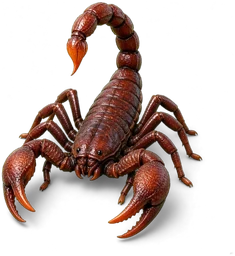
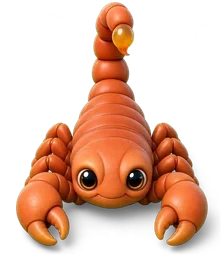
v8: friendlier, centered scorpion sprites (crawler, giant, queen, hatchling, eggs); sprites anchored to tile centre with HP bar under

diff --git a/art.js b/art.js
@@ -18,7 +18,7 @@
   const fmt = (n) => (n >= 1e6 ? (n / 1e6).toFixed(n >= 1e7 ? 1 : 2) + 'M' : n >= 1e4 ? (n / 1e3).toFixed(n >= 1e5 ? 0 : 1) + 'K' : String(Math.round(n)));
 
   // ================= RASTER SPRITES (assets/*.webp) with procedural fallback =================
-  const ASSET_V = 7;
+  const ASSET_V = 8;
   const ASSETS = [...Array.from({ length: 12 }, (_, i) => 'cannon' + String(i + 1).padStart(2, '0')),
     'crawler', 'giant', 'queen', 'hatchling', 'eggs', 'orb', 'item_spray', 'item_fire', 'item_super', 'barricade', 'barricade_broken', 'bg', 'tile'];
   const IMG = {};
@@ -248,14 +248,16 @@
     giant:     { shell: '#8e6646', shell2: '#46301c', hi: '#d0a678', belly: '#b88a5e', claw: '#cfa67c', claw2: '#5e3e22', eye: '#ff8a3a', line: '#22140a' },
     queen:     { shell: '#3c3644', shell2: '#141018', hi: '#7a7088', belly: '#c4283a', claw: '#d83c3c', claw2: '#5a0a14', eye: '#ff4a4a', line: '#08060a' },
   };
-  const BUG_BOX = { crawler: [96, 92], hatchling: [70, 66], giant: [186, 118], queen: [186, 116] };
+  const BUG_BOX = { crawler: [96, 92], hatchling: [70, 66], giant: [190, 120], queen: [190, 134] };
   function drawScorpion(g, cx, cy, type, t, sc = 1) {
     if (has(type) && BUG_BOX[type]) {
-      const [bw, bh] = BUG_BOX[type], breathe = 1 + Math.sin(t * 2.4) * 0.018, sway = Math.sin(t * 1.7) * 0.025;
-      g.save(); g.translate(cx, cy + bh * sc / 2 - 6 * sc);
-      g.fillStyle = 'rgba(90,45,5,.25)'; g.beginPath(); g.ellipse(0, -4 * sc, bw * 0.42 * sc, bh * 0.14 * sc, 0, 0, TAU); g.fill();
+      const [bw, bh] = BUG_BOX[type], im = IMG[type], breathe = 1 + Math.sin(t * 2.4) * 0.018, sway = Math.sin(t * 1.7) * 0.025;
+      const k = Math.min(bw / im.naturalWidth, bh / im.naturalHeight) * sc, dw = im.naturalWidth * k, dh = im.naturalHeight * k;
+      const wide = type === 'giant' || type === 'queen', base = cy + (wide ? 30 : 38) * sc; // feet line, centred on cx
+      g.save(); g.translate(cx, base);
+      g.fillStyle = 'rgba(90,45,5,.24)'; g.beginPath(); g.ellipse(0, -5 * sc, dw * 0.4, Math.max(5, dh * 0.09), 0, 0, TAU); g.fill();
       g.rotate(sway); g.scale(breathe, 2 - breathe); g.imageSmoothingQuality = 'high';
-      fitImg(g, IMG[type], 0, 0, bw * sc, bh * sc);
+      g.drawImage(im, -dw / 2, -dh, dw, dh);
       g.restore(); return;
     }
     const p = PAL[type];

diff --git a/index.html b/index.html
@@ -7,7 +7,7 @@
 <meta name="mobile-web-app-capable" content="yes">
 <meta name="theme-color" content="#c98b4a">
 <title>Sandline Siege</title>
-<link rel="stylesheet" href="style.css?v=7">
+<link rel="stylesheet" href="style.css?v=8">
 </head>
 <body>
 <div id="wrap"><canvas id="game"></canvas></div>
@@ -20,9 +20,9 @@
   </div>
 </div>
 
-<script src="game.js?v=7"></script>
-<script src="audio.js?v=7"></script>
-<script src="art.js?v=7"></script>
-<script src="main.js?v=7"></script>
+<script src="game.js?v=8"></script>
+<script src="audio.js?v=8"></script>
+<script src="art.js?v=8"></script>
+<script src="main.js?v=8"></script>
 </body>
 </html>
